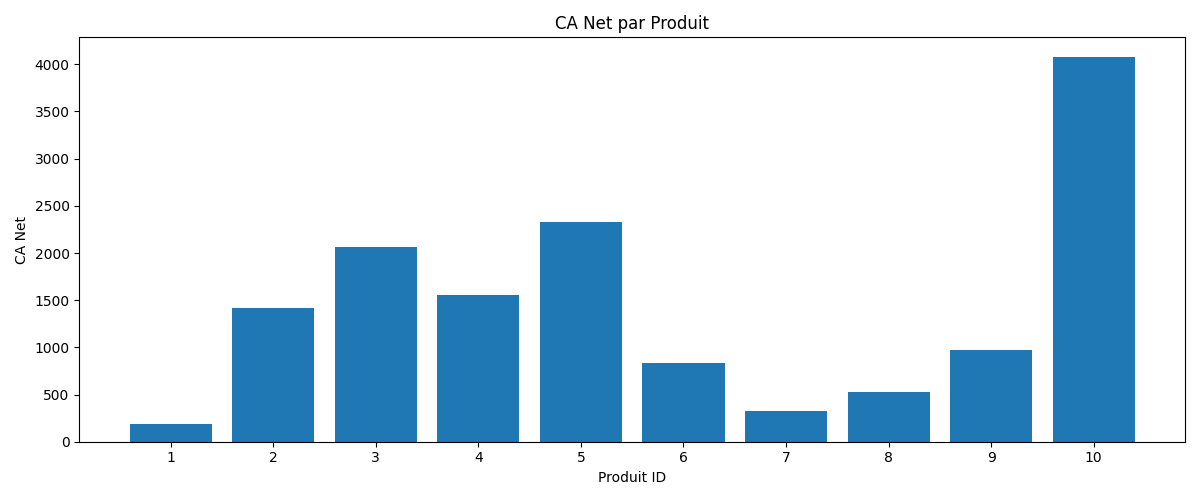
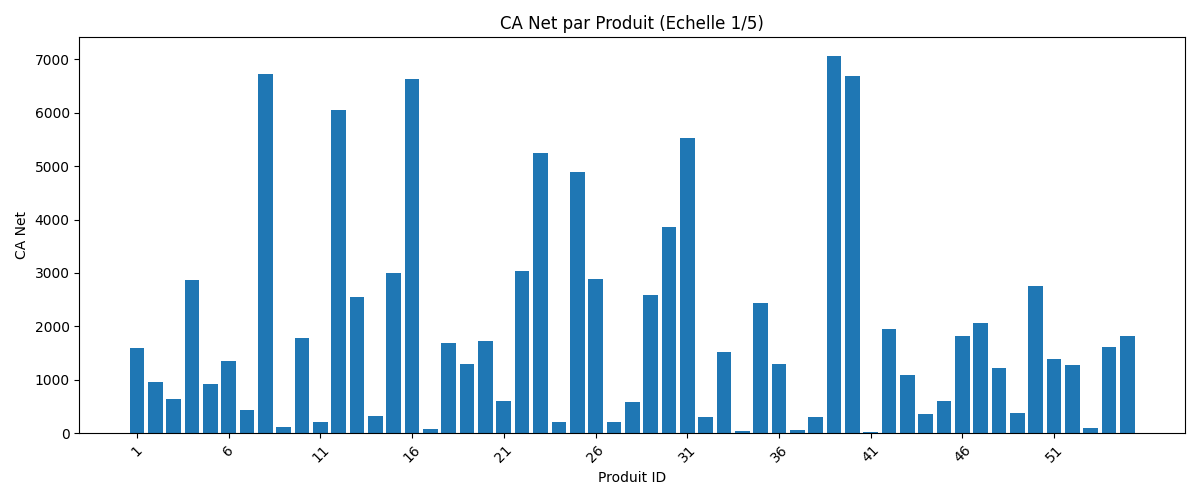
feat: mise à jour de l'échelle du graphique

diff --git a/main.py b/main.py
@@ -52,27 +52,30 @@ print("Produit le plus rentable =", produit_max)
 # =========================
 # 5. Graphique
 # =========================
+import matplotlib.pyplot as plt
+
+import matplotlib.pyplot as plt
+
+import matplotlib.pyplot as plt
+
 n = len(df)
 
-if n <= 10:
-    step = 1   # afficher tous les IDs
-elif n <= 50:
-    step = 5
-else:
-    step = 10
+# On définit 'step' pour n'afficher qu'environ 10 à 15 labels max
+# Si n=100, step=10. Si n=50, step=5.
+step = max(1, n // 10) 
 
 plt.figure(figsize=(12,5))
-plt.bar(df["ID"], df["CA_Net"])
+plt.bar(df["ID"].astype(str), df["CA_Net"])
 
-plt.xticks(df["ID"][::step])
+# On applique le pas dynamique
+plt.xticks(range(0, n, step), df["ID"].iloc[::step], rotation=45)
 
 plt.xlabel("Produit ID")
 plt.ylabel("CA Net")
-plt.title("CA Net par Produit")
+plt.title(f"CA Net par Produit (Echelle 1/{step})")
 
 plt.tight_layout()
 plt.savefig("graph.png")
-print("Graph saved as graph.png")
 
 # =========================
 # 6. Export final
